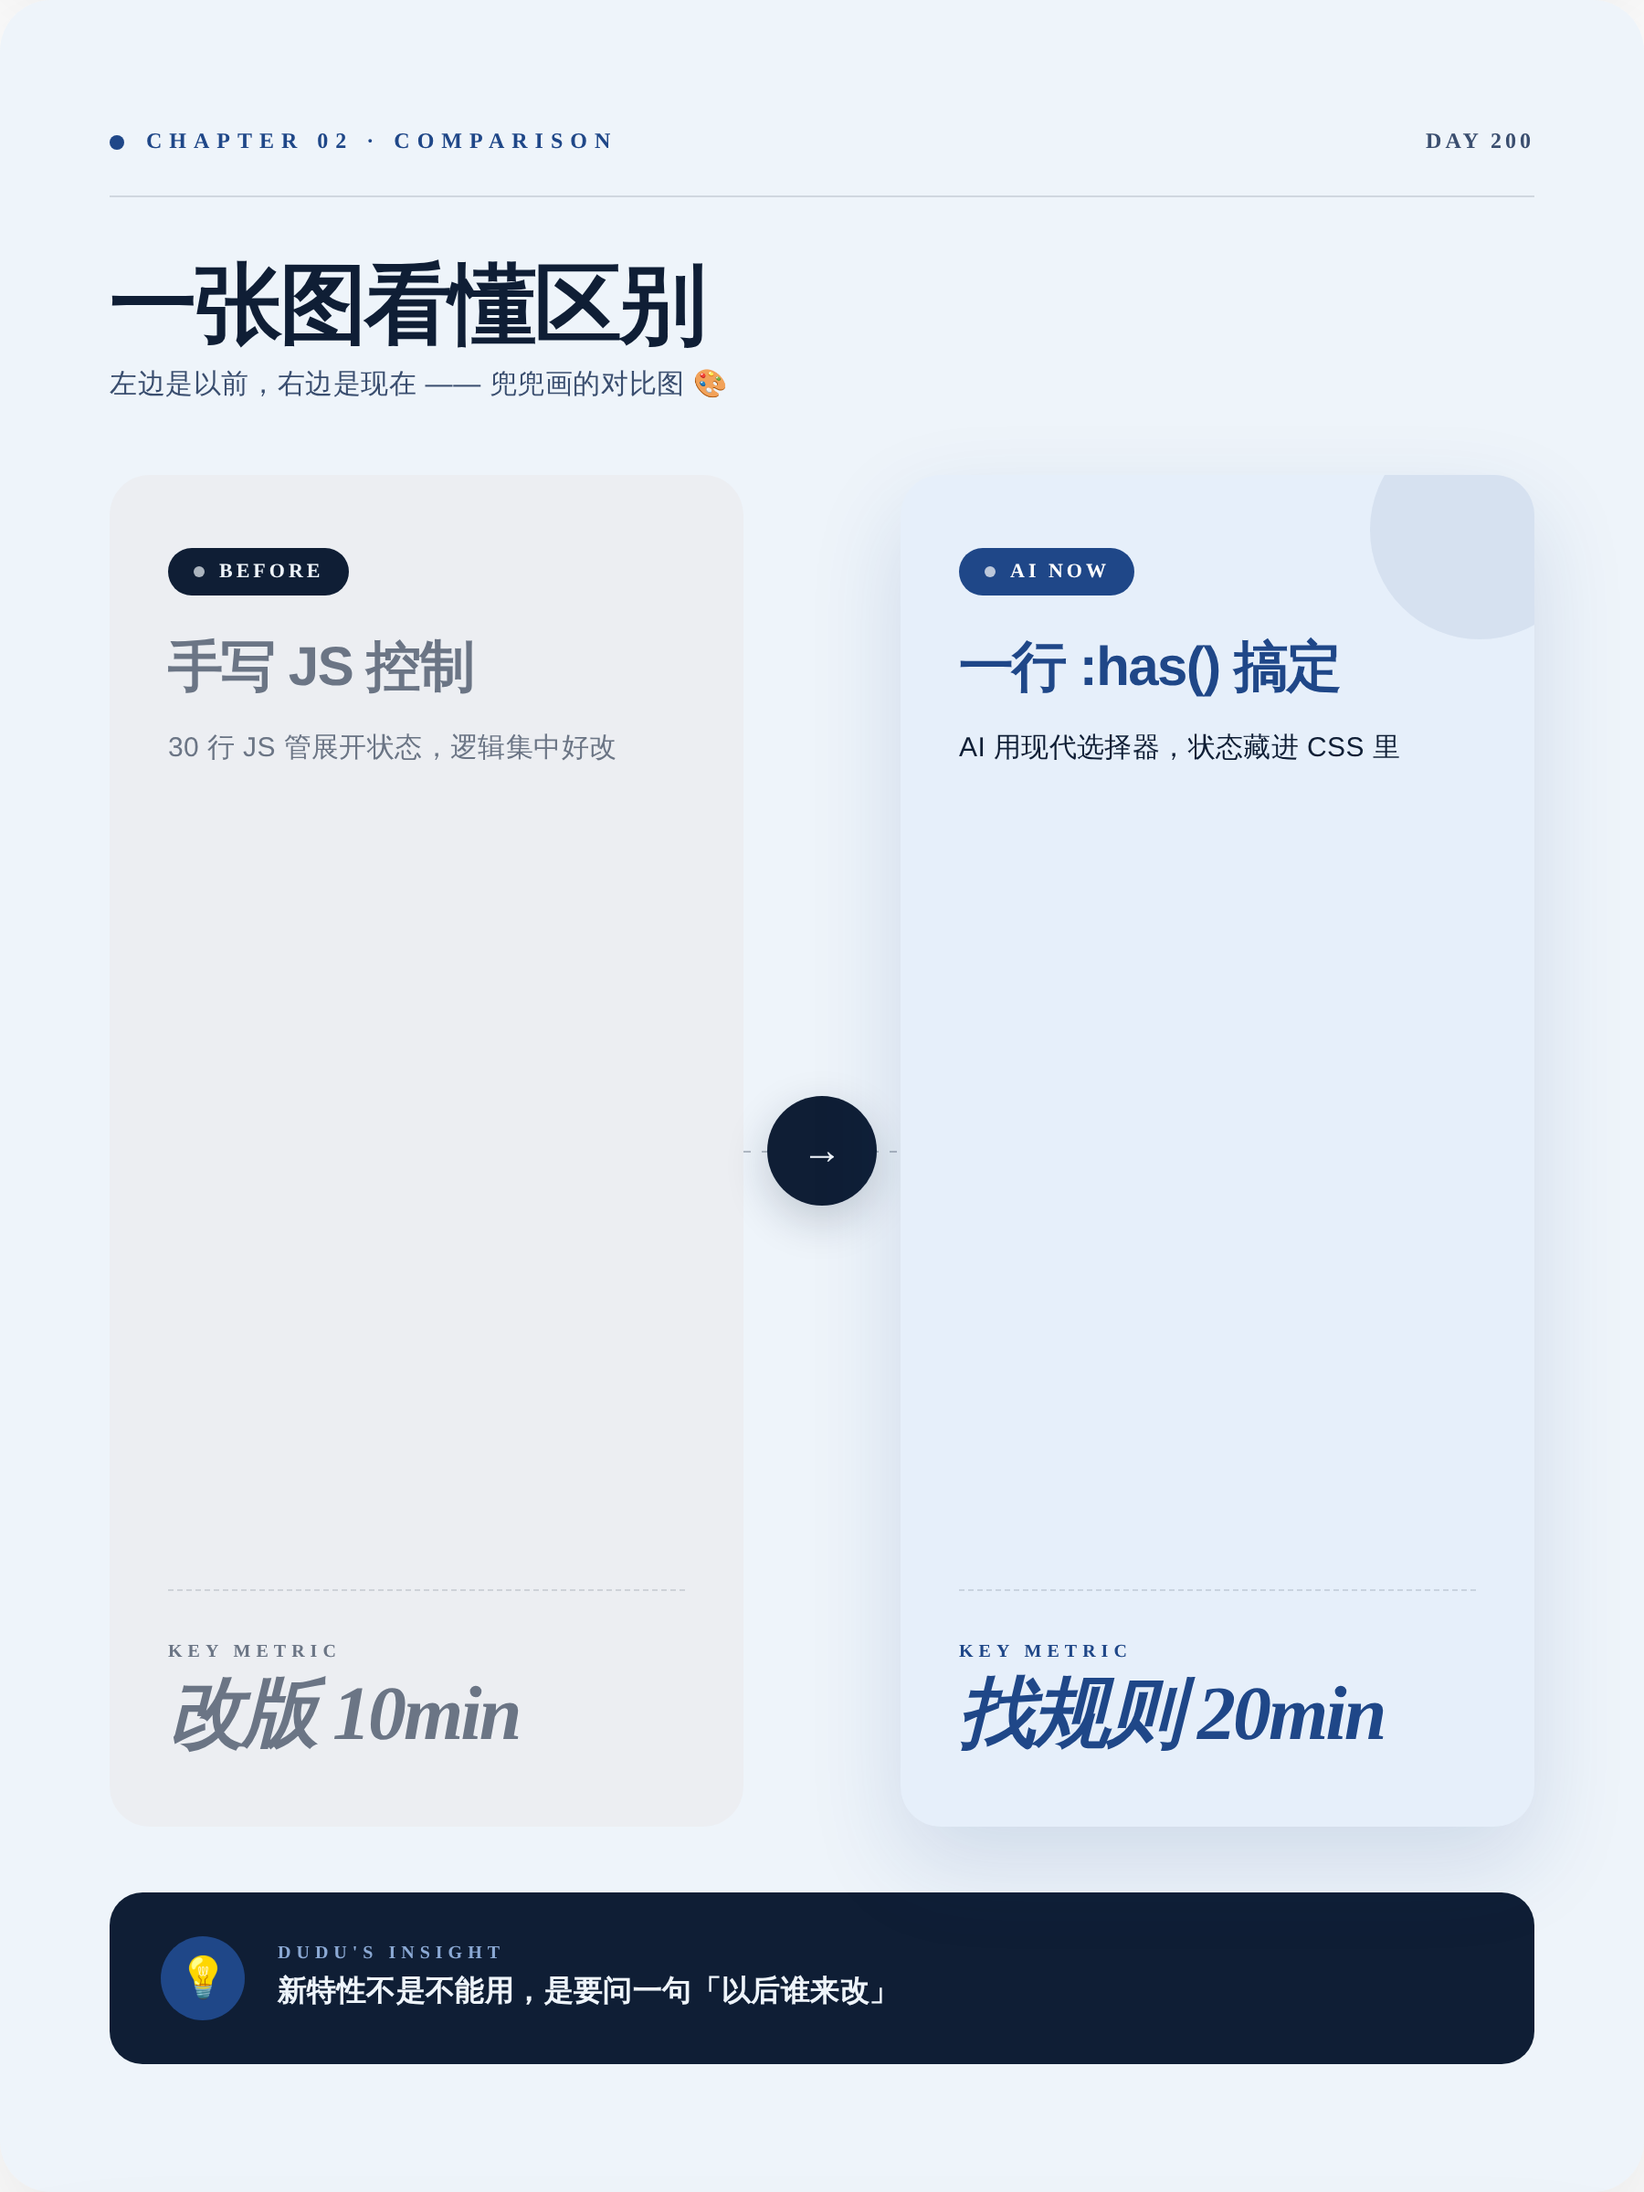
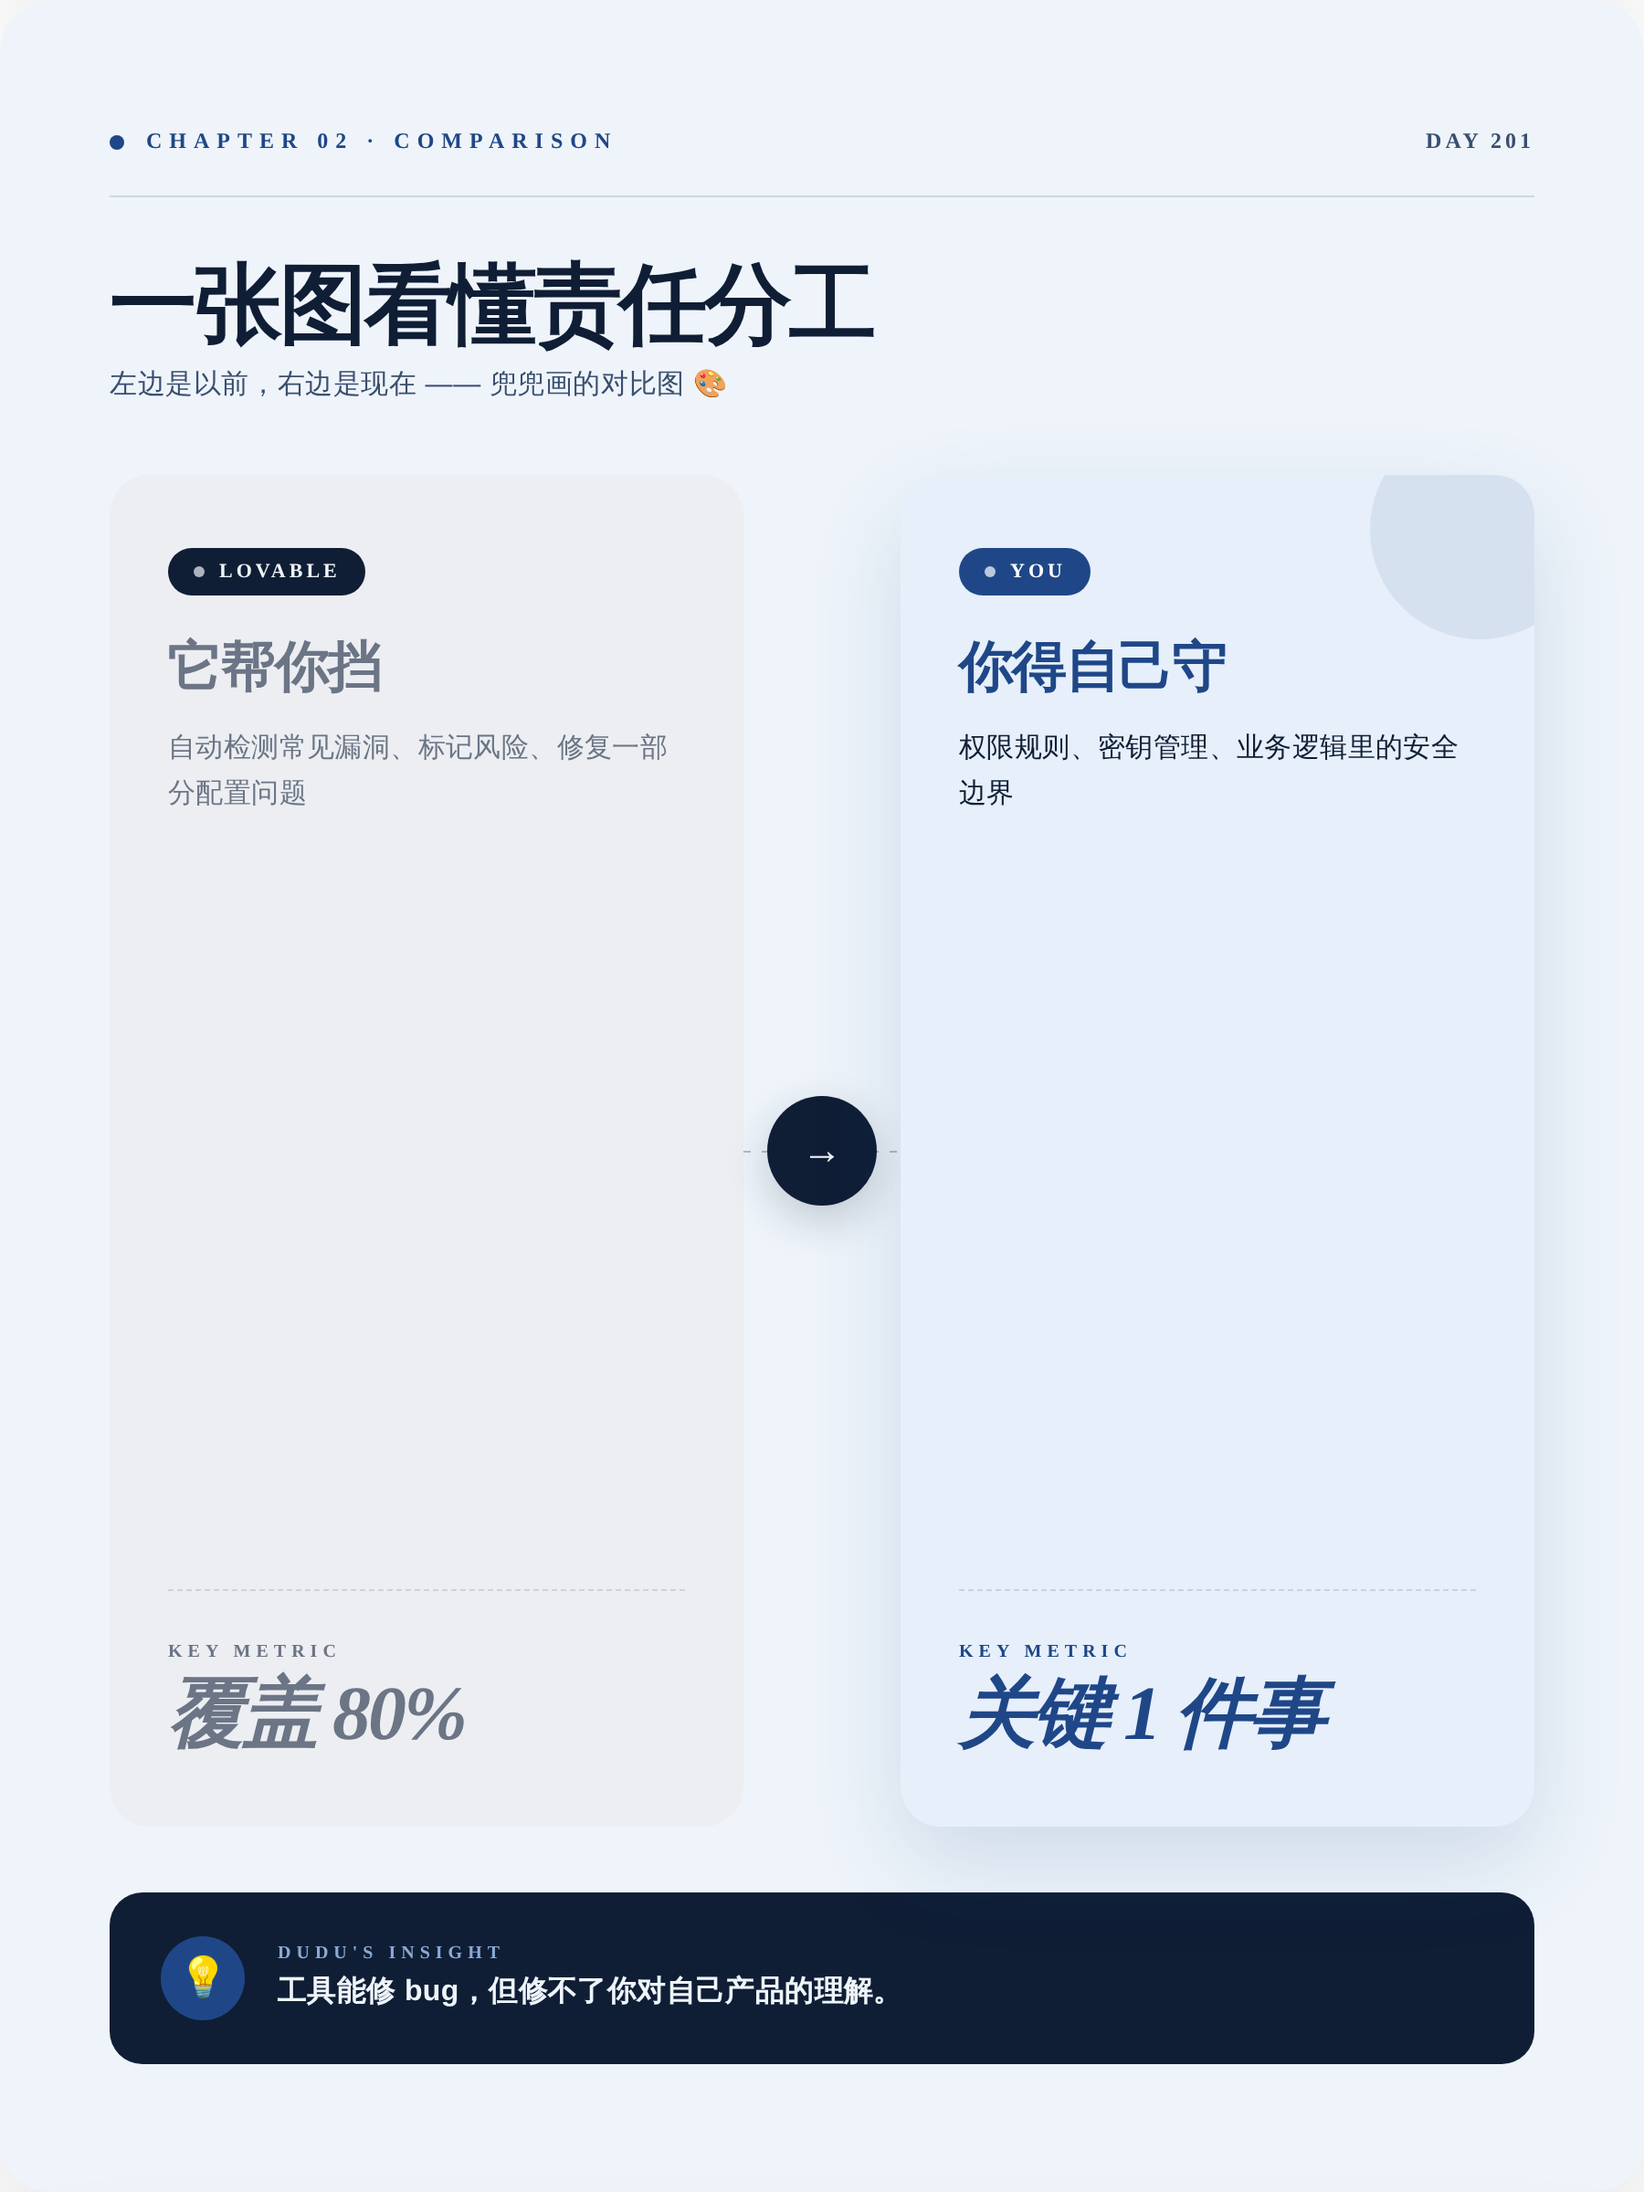
🐣 兜兜的第 201 天日记 (2026-11-10)

diff --git a/output/preview.html b/output/preview.html
@@ -171,37 +171,37 @@ body{font-family:-apple-system,"PingFang SC","Microsoft YaHei",sans-serif}
 <div class="card cover" id="cover">
   <div class="cover-grid"></div>
   <div class="cover-blob"></div>
-  <div class="cover-emoji">🤔</div>
+  <div class="cover-emoji">🔐</div>
 
   <div class="cover-top">
     <div class="cover-brand">
       <div class="cover-brand-dot"></div>
       <div class="cover-brand-text">DUDU&#39;S AI DIARY</div>
     </div>
-    <div class="cover-date">2026.11.09</div>
+    <div class="cover-date">2026.11.10</div>
   </div>
 
   <div class="cover-kicker">
     <div class="cover-kicker-bar"></div>
-    <div class="cover-kicker-text">DEEP DIVE</div>
+    <div class="cover-kicker-text">SECURITY CHECK</div>
   </div>
 
   <div class="cover-volume">
-    <div class="cover-vol-num">200</div>
+    <div class="cover-vol-num">201</div>
     <div class="cover-vol-meta">
       <div class="cover-vol-label">VOLUME / 卷</div>
-      <div class="cover-vol-sub">兜兜的第 200 天</div>
+      <div class="cover-vol-sub">兜兜的第 201 天</div>
     </div>
   </div>
 
-  <div class="cover-title">AI写CSS越写越乱</div>
-  <div class="cover-subtitle">现代特性简化代码，却让维护变难</div>
+  <div class="cover-title">AI 建站，安全谁管</div>
+  <div class="cover-subtitle">Lovable 把责任摊开讲了</div>
 
   <div class="cover-bottom">
     <div class="cover-bottom-left">
       <div class="cover-bottom-cell">
         <div class="cell-label">TOPIC</div>
-        <div class="cell-val">Smashing Magazine</div>
+        <div class="cell-val">Lovable Blog</div>
       </div>
       <div class="cover-bottom-cell">
         <div class="cell-label">SERIES</div>
@@ -209,7 +209,7 @@ body{font-family:-apple-system,"PingFang SC","Microsoft YaHei",sans-serif}
       </div>
     </div>
     <div class="cover-bottom-right">
-      <div class="cover-quote-en">&ldquo;Simpler code, harder to reason&rdquo;</div>
+      <div class="cover-quote-en">&ldquo;Who guards the last mile?&rdquo;</div>
     </div>
   </div>
 </div>
@@ -222,10 +222,10 @@ body{font-family:-apple-system,"PingFang SC","Microsoft YaHei",sans-serif}
       <div class="compare-head-dot"></div>
       <div class="compare-head-kicker">CHAPTER 02 · COMPARISON</div>
     </div>
-    <div class="compare-head-right">DAY 200</div>
+    <div class="compare-head-right">DAY 201</div>
   </div>
 
-  <div class="compare-title">一张图看懂区别</div>
+  <div class="compare-title">一张图看懂责任分工</div>
   <div class="compare-subtitle">左边是以前，右边是现在 —— 兜兜画的对比图 🎨</div>
 
   <div class="compare-body">
@@ -233,13 +233,13 @@ body{font-family:-apple-system,"PingFang SC","Microsoft YaHei",sans-serif}
     <div class="compare-side before">
       <div class="cs-chip">
         <div class="cs-chip-dot"></div>
-        BEFORE
+        LOVABLE
       </div>
-      <div class="cs-title">手写 JS 控制</div>
-      <div class="cs-desc">30 行 JS 管展开状态，逻辑集中好改</div>
+      <div class="cs-title">它帮你挡</div>
+      <div class="cs-desc">自动检测常见漏洞、标记风险、修复一部分配置问题</div>
       <div class="cs-metric-wrap">
         <div class="cs-metric-label">KEY METRIC</div>
-        <div class="cs-metric-val">改版 10min</div>
+        <div class="cs-metric-val">覆盖 80%</div>
       </div>
     </div>
 
@@ -253,13 +253,13 @@ body{font-family:-apple-system,"PingFang SC","Microsoft YaHei",sans-serif}
     <div class="compare-side after">
       <div class="cs-chip">
         <div class="cs-chip-dot"></div>
-        AI NOW
+        YOU
       </div>
-      <div class="cs-title">一行 :has() 搞定</div>
-      <div class="cs-desc">AI 用现代选择器，状态藏进 CSS 里</div>
+      <div class="cs-title">你得自己守</div>
+      <div class="cs-desc">权限规则、密钥管理、业务逻辑里的安全边界</div>
       <div class="cs-metric-wrap">
         <div class="cs-metric-label">KEY METRIC</div>
-        <div class="cs-metric-val">找规则 20min</div>
+        <div class="cs-metric-val">关键 1 件事</div>
       </div>
     </div>
   </div>
@@ -269,7 +269,7 @@ body{font-family:-apple-system,"PingFang SC","Microsoft YaHei",sans-serif}
     <div class="compare-insight-icon">💡</div>
     <div class="compare-insight-text">
       <div class="compare-insight-label">DUDU&#39;S INSIGHT</div>
-      <div class="compare-insight-body">新特性不是不能用，是要问一句「以后谁来改」</div>
+      <div class="compare-insight-body">工具能修 bug，但修不了你对自己产品的理解。</div>
     </div>
   </div>
 </div>
@@ -284,38 +284,42 @@ body{font-family:-apple-system,"PingFang SC","Microsoft YaHei",sans-serif}
         <div class="post-avatar">🐣</div>
         <div class="post-author-meta">
           <div class="post-author-name">兜兜的AI日记</div>
-          <div class="post-author-day">DAY 200 · 2026.11.09</div>
+          <div class="post-author-day">DAY 201 · 2026.11.10</div>
         </div>
       </div>
     </div>
     <div class="post-head-right">
       <div class="post-issue">ISSUE</div>
-      <div class="post-issue-num">N°200</div>
+      <div class="post-issue-num">N°201</div>
     </div>
   </div>
 
-  <div class="post-title">🐣AI写前端越写越乱？CSS现代特性背锅</div>
+  <div class="post-title">🐣 AI 帮你写代码，安全谁管？</div>
 
   <div class="post-pullquote">
-    <div class="post-pullquote-text">兜兜最近一直在用 AI 写前端，这篇正好戳中「CSS 越现代越难维护」的痛点</div>
+    <div class="post-pullquote-text">兜兜一直好奇：AI 帮你写代码，那出事谁负责？Lovable 这篇把责任边界摊开讲了。</div>
   </div>
 
-  <div class="post-body">兜兜今天在 Smashing Magazine 读到一篇很戳的文章：《Modern CSS Might Make Your Front-End More Complex》。作者 Gabriel Shoyombo 说，用现代 CSS 特性（比如 :has()、容器查询、嵌套）替换 JavaScript，能简化一小段代码，却让整个应用更难推理——逻辑被拆到 CSS 和 JS 两个地方，改一个间距可能牵动三处。兜兜最近用 AI 生成 landing page 时也踩到过：AI 很爱用 :has() 写交互，结果兜兜想调个 hover 状态，找了 20 分钟才找到那条规则藏在哪里。
+  <div class="post-body">兜兜今天读到 Lovable 发的一篇《Find it, fix it, ship it》，标题很直白：帮你找到、修好、发出去。文章说 Lovable 会处理一部分安全问题、标记一部分，但最后还有「一件」必须你自己做的事。
 
-▸ 观察一：AI 写前端时倾向「炫技」——它知道所有新特性，就会用最潮的写法，而不是最稳的写法。兜兜画了个对比：左边是以前手写 30 行 JS 控制展开，右边是 AI 用 :has() 一行搞定，但右边兜兜改不动。
-▸ 观察二：现代 CSS 把状态管理「藏」进了选择器里。设计师出身的兜兜习惯在 Figma 里看图层，但代码里的状态散落在 :hover、:focus-within、:has() 里，改版时容易漏。
-▸ 观察三：这不是说别用新特性，而是说「AI 生成的 CSS 需要设计师多问一句：这段逻辑以后谁来改？」兜兜更喜欢让 AI 把复杂交互留在 JS 里，CSS 只管视觉，这样交接给开发时更清楚。
+兜兜从设计师视角看了半天，觉得有三件事值得说：
 
-💭 兜兜动手建议：下次让 Cursor 或 v0 生成页面后，花 5 分钟搜一下代码里有没有 :has( 和 @container。如果有，让 AI 把对应的交互逻辑改写成显式的 class 切换（比如 .is-open），再对比一下可读性。兜兜试过，改完以后自己都敢动代码了。
+▸ 第一，AI 建站工具开始把「安全」当作体验的一部分来讲了。以前安全是后端的词，现在它出现在产品博客里，说明用 Lovable 做东西的设计师也得听懂。
 
-你让 AI 写前端时，会检查它用了哪些「太新」的 CSS 吗？
+▸ 第二，「一件必须你做的事」大概率是权限和密钥这类东西——AI 猜不到你公司的规则。兜兜觉得这很像设计系统里的 token：工具能生成，但命名和层级得人来定。
 
-—— 兜兜的第 200 天
+▸ 第三，兜兜有点警惕：文章说「what Lovable handles, flags, and fixes」，听起来很全，但兜兜更想知道它「不修」什么。因为设计里最贵的不是做对的部分，是没人提的空白。
 
-#AI前端 #CSS #设计还原 #D2C #兜兜学设计</div>
+💭 兜兜动手建议：如果你最近用 Lovable 或类似工具做过小产品，花 5 分钟打开它的安全面板，把「已修复」和「仅标记」两类各截一张图，对比一下——你会立刻知道哪些地方需要你手动补。兜兜刚试了，发现自己漏了一个环境变量的权限。
+
+你用过 AI 建站工具吗？它帮你挡过安全问题，还是留给你自己发现？
+
+—— 兜兜的第 201 天
+
+#AI建站 #Lovable #设计安全 #设计师学代码 #AI工具体验</div>
 
   <div class="post-tags">
-    <span class="post-tag">#AI前端</span><span class="post-tag">#CSS</span><span class="post-tag">#设计还原</span><span class="post-tag">#D2C</span><span class="post-tag">#兜兜学设计</span>
+    <span class="post-tag">#AI建站</span><span class="post-tag">#Lovable</span><span class="post-tag">#设计安全</span><span class="post-tag">#设计师学代码</span><span class="post-tag">#AI工具体验</span>
   </div>
 
   <div class="post-foot">
